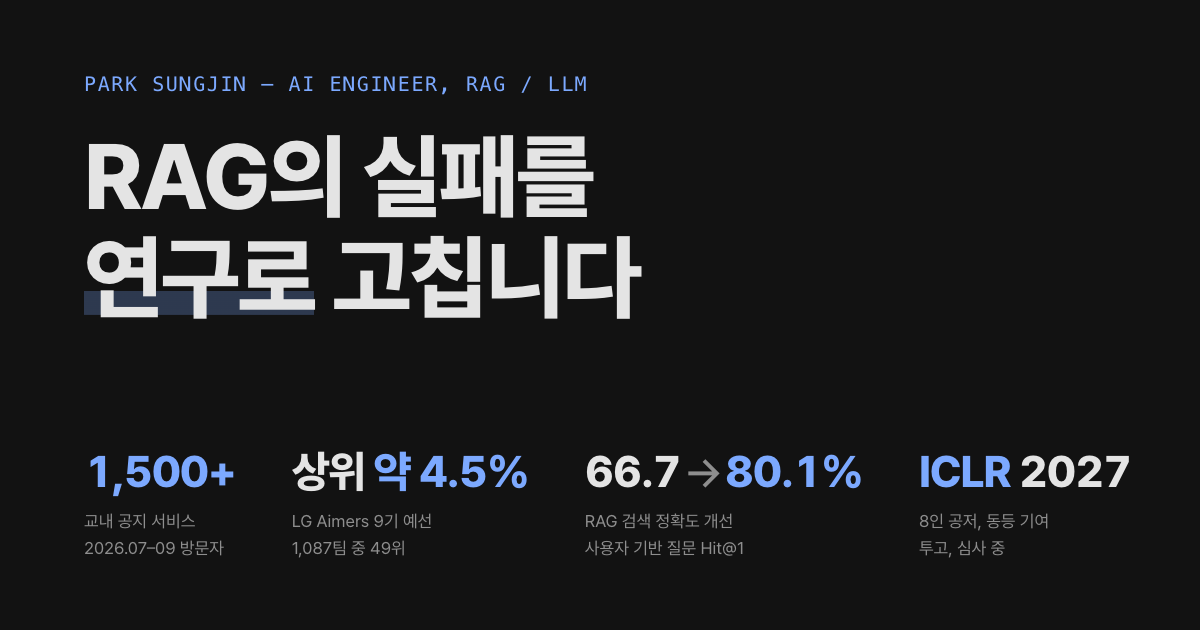
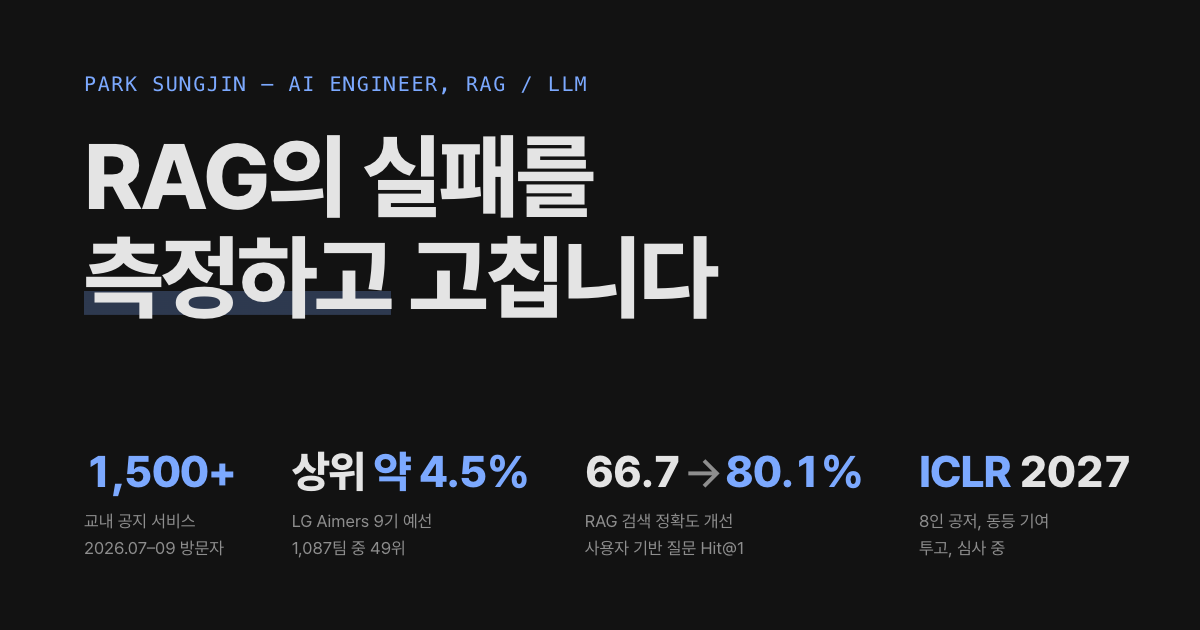
첫 화면 제목을 'RAG의 실패를 측정하고 고칩니다'로 변경, og.png 재생성

Changed region(s): [[0.0617, 0.3619, 0.6167, 0.5127]]

diff --git a/index.html b/index.html
@@ -14,7 +14,7 @@ document.documentElement.setAttribute('data-theme',t);})();
 <meta property="og:title" content="박성진 — AI 엔지니어 (RAG, LLM)">
 <meta property="og:description" content="교내 공지 서비스 운영(2026년 7~9월 방문자 1,500+), RAG Hit@1 66.7% → 80.1%(사용자 기반 질문), LG Aimers 9기 온라인 예선 상위 약 4.5%, ICLR 2027 투고 공저(8인 동등 기여)">
 <meta property="og:url" content="https://jinpop.github.io/">
-<meta property="og:image" content="https://jinpop.github.io/og.png?v=12">
+<meta property="og:image" content="https://jinpop.github.io/og.png?v=13">
 <meta property="og:locale" content="ko_KR">
 <meta name="twitter:card" content="summary_large_image">
 <link rel="canonical" href="https://jinpop.github.io/">
@@ -421,7 +421,7 @@ figcaption{margin-top:.85rem;font-size:.85rem;color:var(--fg-3);max-width:52ch}
   <!-- ── hero ── -->
   <section class="hero shell" id="top" aria-label="소개">
     <p class="eyebrow">Park Sungjin — AI Engineer, RAG / LLM</p>
-    <h1>RAG의 실패를<br><span class="ul">연구로</span> 고칩니다</h1>
+    <h1>RAG의 실패를<br><span class="ul">측정하고</span> 고칩니다</h1>
     <div class="lede">
       <p><b>실사용자가 있는 RAG 서비스를 직접 만들고 운영하는</b> AI 엔지니어 박성진입니다.<br class="br-wide"> 운영에서 나온 검색 실패를 <b>연구 문제로 정의하고, 그 결과를 다시 서비스에 적용</b>합니다.</p>
       <p>익숙한 방식도 더 빠른 길이 없는지 먼저 따져 봅니다.<br class="br-wide"> 실험 운영은 <b>역할별 AI 에이전트로 나눠 맡기고</b>, 전략과 최종 판단은 직접 합니다.<br><a class="lk jump" href="#exo-speed">하이퍼파라미터 탐색 시간 약&nbsp;60배 단축(환산)</a>, <span class="nb"><a class="lk jump" href="#rostercrawler">근로 업무 1주일을 5분으로</a>,</span> <span class="nb"><a class="lk jump" href="#dacon-harness">에이전트 하네스 설계</a></span></p>

diff --git a/tools/og.html b/tools/og.html
@@ -15,7 +15,7 @@ h1{margin-top:30px;font-size:92px;font-weight:800;line-height:1.1;letter-spacing
 .lab{margin-top:12px;font-size:17px;line-height:1.55;color:rgba(255,255,255,.52)}
 </style></head><body>
 <p class="eyebrow">Park Sungjin — AI Engineer, RAG / LLM</p>
-<h1>RAG의 실패를<br><span class="ul">연구로</span> 고칩니다</h1>
+<h1>RAG의 실패를<br><span class="ul">측정하고</span> 고칩니다</h1>
 <ul class="stats">
 <li><b class="num"><em>1,500+</em></b><p class="lab">교내 공지 서비스<br>2026.07–09 방문자</p></li>
 <li><b class="num">상위 <em>약 4.5%</em></b><p class="lab">LG Aimers 9기 예선<br>1,087팀 중 49위</p></li>
